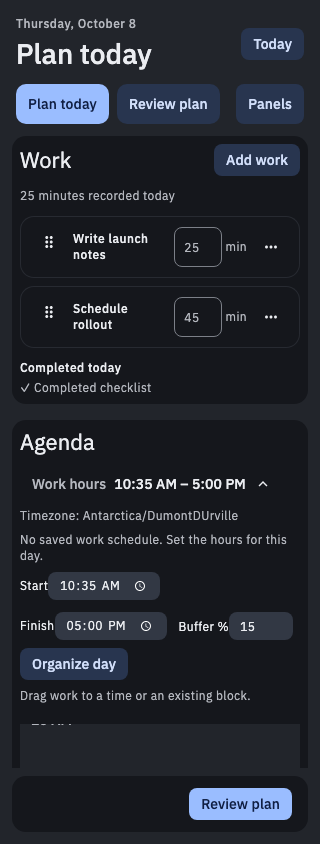
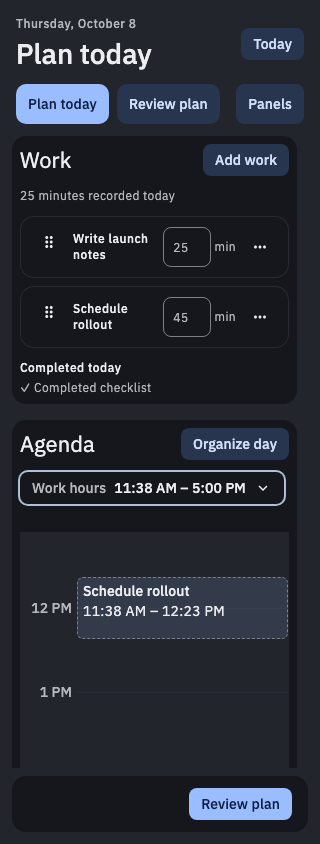
fix(planning): Reduce agenda clutter during daily planning
Keep the agenda focused on timed work instead of opening scheduling
settings and calendar metadata above it. Workday bounds remain editable
through the range disclosure, and all-day details stay collapsed while
busy events retain their availability consequence.

Place Organize day beside the heading and remove repeated normal-state
status and permanent drag instructions. Show revision controls only when
a proposal or reversible change requires a decision. Preserve scheduling
geometry, task placement, and the separate planning activity.

Authenticated built-app journeys verify late planning, draft resume,
missed-block previews, and consolidated review. Fresh captures cover
both themes and widths down to 320 pixels. Focused interaction tests and
the full web typecheck pass without relaxing the complexity gate.

diff --git a/apps/web/tests/daily-planning/workday-controls.test.tsx b/apps/web/tests/daily-planning/workday-controls.test.tsx
@@ -3,7 +3,10 @@ import { cleanup, fireEvent, render, screen } from '@testing-library/react';
 import userEvent from '@testing-library/user-event';
 import { afterEach, expect, it, vi } from 'vitest';
 import type { ReadyPlanningController } from '../../src/components/daily-planning/daily-planning-controller';
-import { WorkdayControls } from '../../src/components/daily-planning/daily-planning-schedule-controls';
+import {
+  ScheduleControls,
+  WorkdayControls,
+} from '../../src/components/daily-planning/daily-planning-schedule-controls';
 
 afterEach(cleanup);
 
@@ -42,15 +45,17 @@ it('keeps review settings closed while allowing a keyboard edit of the finish ti
   });
 });
 
-it('shows editable bounds in planning when no work schedule has been saved', () => {
+it('opens editable bounds on demand when no work schedule has been saved', async () => {
   render(<WorkdayControls plan={controller('plan')} />);
+  expect(screen.queryByLabelText('Start')).not.toBeInTheDocument();
+  await userEvent.click(screen.getByRole('button', { name: 'Workday settings' }));
   expect(screen.getByText('Timezone: UTC')).toBeVisible();
   expect(screen.getByLabelText('Start')).toHaveValue('09:00');
   expect(screen.getByLabelText('Finish')).toHaveValue('17:00');
   expect(screen.getByLabelText('Buffer %')).toHaveValue(15);
 });
 
-it('expands missing work hours when proposal context arrives after the first render', () => {
+it('keeps settings closed when proposal context arrives after the first render', () => {
   const plan = controller('plan');
   const pending = { ...plan, proposalContext: null };
   const view = render(<WorkdayControls plan={pending} />);
@@ -59,10 +64,10 @@ it('expands missing work hours when proposal context arrives after the first ren
     'false',
   );
   view.rerender(<WorkdayControls plan={plan} />);
-  expect(screen.getByLabelText('Start')).toHaveValue('09:00');
+  expect(screen.queryByLabelText('Start')).not.toBeInTheDocument();
   expect(screen.getByRole('button', { name: 'Workday settings' })).toHaveAttribute(
     'aria-expanded',
-    'true',
+    'false',
   );
 });
 
@@ -79,3 +84,29 @@ it.each([true, false])(
     expect(trigger).toHaveAttribute('aria-expanded', String(open));
   },
 );
+
+it('shows revision actions only while a proposal or undoable change exists', async () => {
+  const plan = {
+    ...controller('plan'),
+    preview: null,
+    canUndoSchedule: false,
+    applyPreview: vi.fn(),
+    setPreview: vi.fn(),
+    undoSchedule: vi.fn(),
+  };
+  const view = render(<ScheduleControls plan={plan} />);
+  expect(screen.queryByRole('button')).not.toBeInTheDocument();
+  view.rerender(
+    <ScheduleControls
+      plan={{ ...plan, preview: { title: 'Updated schedule', draft: plan.draft } }}
+    />,
+  );
+  await userEvent.click(screen.getByRole('button', { name: 'Apply schedule' }));
+  expect(plan.applyPreview).toHaveBeenCalledOnce();
+  await userEvent.click(screen.getByRole('button', { name: 'Keep current' }));
+  expect(plan.setPreview).toHaveBeenCalledWith(null);
+  expect(screen.queryByRole('button', { name: 'Undo schedule' })).not.toBeInTheDocument();
+  view.rerender(<ScheduleControls plan={{ ...plan, canUndoSchedule: true }} />);
+  await userEvent.click(screen.getByRole('button', { name: 'Undo schedule' }));
+  expect(plan.undoSchedule).toHaveBeenCalledOnce();
+});

diff --git a/apps/web/src/components/daily-planning/daily-planning-schedule-controls.tsx b/apps/web/src/components/daily-planning/daily-planning-schedule-controls.tsx
@@ -66,9 +66,7 @@ function WorkdayBuffer({ plan }: { readonly plan: ReadyPlanningController }): JS
 
 /** Edit the scheduling bounds and buffer used by the proposal service. */
 export function WorkdayControls({ plan }: { readonly plan: ReadyPlanningController }): JSX.Element {
-  const [chosenOpen, setChosenOpen] = useState<boolean | null>(null);
-  const open =
-    chosenOpen ?? (plan.stage === 'plan' && Boolean(plan.proposalContext?.workScheduleMissing));
+  const [open, setOpen] = useState(false);
   const changeTime = (value: string, field: 'start' | 'finish'): void => {
     if (!value) return;
     const [hours, minutes] = value.split(':').map(Number);
@@ -84,7 +82,7 @@ export function WorkdayControls({ plan }: { readonly plan: ReadyPlanningControll
     );
   };
   return (
-    <Collapsible open={open} onOpenChange={setChosenOpen} className="space-y-2">
+    <Collapsible open={open} onOpenChange={setOpen} className="space-y-2">
       <CollapsibleTrigger asChild>
         <Button
           size="sm"
@@ -128,36 +126,36 @@ export function WorkdayControls({ plan }: { readonly plan: ReadyPlanningControll
   );
 }
 
+/** Rebuild flexible work without replacing the current agenda until it is accepted. */
+export function OrganizeDay({ plan }: { readonly plan: ReadyPlanningController }): JSX.Element {
+  return (
+    <Button
+      size="sm"
+      variant="secondary"
+      disabled={plan.proposalPending}
+      onClick={() => {
+        void plan.rebuild();
+      }}
+    >
+      Organize day
+    </Button>
+  );
+}
+
 /** Keep a proposed revision separate until the person accepts the shown calendar. */
 export function ScheduleControls({
   plan,
 }: {
   readonly plan: ReadyPlanningController;
-}): JSX.Element {
+}): JSX.Element | null {
+  if (!plan.preview && !plan.canUndoSchedule) return null;
   return (
     <div className="space-y-2">
-      <div className="flex flex-wrap items-center gap-2">
-        <Button
-          size="sm"
-          variant="secondary"
-          disabled={plan.proposalPending}
-          onClick={() => {
-            void plan.rebuild();
-          }}
-        >
-          Organize day
+      {plan.canUndoSchedule && !plan.preview ? (
+        <Button size="sm" variant="ghost" onClick={plan.undoSchedule}>
+          Undo schedule
         </Button>
-        {plan.canUndoSchedule ? (
-          <Button size="sm" variant="ghost" onClick={plan.undoSchedule}>
-            Undo schedule
-          </Button>
-        ) : null}
-        {plan.stage === 'plan' ? (
-          <span className="text-body-small text-on-surface-variant">
-            Drag work to a time or an existing block.
-          </span>
-        ) : null}
-      </div>
+      ) : null}
       {plan.preview ? (
         <Card>
           <CardContent className="space-y-2 pt-3">

diff --git a/apps/web/src/components/daily-planning/daily-planning-agenda.tsx b/apps/web/src/components/daily-planning/daily-planning-agenda.tsx
@@ -3,7 +3,8 @@
 /** Timed daily agenda and explicit block controls for keyboard and touch. */
 import type { DailyPlanSession, DailyPlanSnapshot } from '@docket/planning/daily-plan-flow';
 import { instantAt, localMinuteOfDay } from '@docket/planning/zoned-time';
-import { Button, Stack } from '@docket/ui/primitives';
+import { Button, Collapsible, CollapsibleContent, CollapsibleTrigger } from '@docket/ui/primitives';
+import { ChevronDown } from '@docket/ui/icons';
 import type { JSX, ReactNode } from 'react';
 import { SchedulingCanvas, type ScheduleItem } from '@/components/scheduling';
 import { useDailyPlanDropTarget } from '@/components/dnd/use-daily-plan-drop-target';
@@ -129,18 +130,36 @@ function agendaItems(props: DailyAgendaProps): ScheduleItem[] {
 function AllDayContext({ events }: { readonly events: readonly EventBlock[] }): JSX.Element | null {
   const allDay = events.filter((event) => event.allDay);
   if (allDay.length === 0) return null;
+  const busy = allDay.filter((event) => event.blocksTime !== false);
+  const label =
+    busy.length === 1
+      ? `${busy[0]?.title} · Busy all day`
+      : busy.length > 1
+        ? `${busy.length} busy all-day events`
+        : `${allDay.length} all-day ${allDay.length === 1 ? 'event' : 'events'}`;
   return (
-    <Stack gap={1} role="group" aria-label="All-day calendar context">
-      <p className="text-label-small text-on-surface-variant">All day</p>
-      <ul className="text-body-small text-on-surface-variant flex flex-wrap gap-x-3 gap-y-1">
-        {allDay.map((event, index) => (
-          <li key={`${event.title}-${index}`}>
-            {event.title}
-            {event.blocksTime !== false ? ' (busy)' : ''}
-          </li>
-        ))}
-      </ul>
-    </Stack>
+    <Collapsible role="group" aria-label="All-day calendar context" className="space-y-1">
+      <CollapsibleTrigger asChild>
+        <Button
+          size="sm"
+          variant="ghost"
+          className="group h-auto max-w-full justify-start gap-2 text-left"
+        >
+          <span className="text-body-small text-on-surface-variant min-w-0 text-wrap">{label}</span>
+          <ChevronDown aria-hidden="true" className="shrink-0 group-data-[state=open]:rotate-180" />
+        </Button>
+      </CollapsibleTrigger>
+      <CollapsibleContent>
+        <ul className="text-body-small text-on-surface-variant space-y-1 px-3">
+          {allDay.map((event, index) => (
+            <li key={`${event.title}-${index}`}>
+              {event.title}
+              {event.blocksTime !== false ? ' (busy)' : ''}
+            </li>
+          ))}
+        </ul>
+      </CollapsibleContent>
+    </Collapsible>
   );
 }
 

diff --git a/apps/web/src/components/daily-planning/daily-planning-plan.tsx b/apps/web/src/components/daily-planning/daily-planning-plan.tsx
@@ -11,7 +11,7 @@ import { ActivityPanels } from '@docket/ui/components';
 import { DailyAgenda } from './daily-planning-agenda';
 import { SessionEditor } from './daily-planning-session-editor';
 import { DailyPlanningAssessment } from './daily-planning-assessment';
-import { ScheduleControls, WorkdayControls } from './daily-planning-schedule-controls';
+import { OrganizeDay, ScheduleControls, WorkdayControls } from './daily-planning-schedule-controls';
 import type { ReadyPlanningController } from './daily-planning-controller';
 import {
   addTaskToSession,
@@ -89,34 +89,14 @@ function agendaActions(plan: ReadyPlanningController) {
 }
 
 function AgendaHeading({ plan }: { readonly plan: ReadyPlanningController }): JSX.Element {
-  const displayed = plan.preview?.draft ?? plan.draft;
-  const unplaced = displayed.tasks.filter(
-    (entry) => unplacedMinutes(displayed, entry.taskId, plan.dayQ.data?.actual ?? []) > 0,
-  ).length;
   return (
     <>
-      <div className="flex flex-wrap items-start justify-between gap-2">
-        <div className="space-y-1">
-          <h2 className="text-title-large">Agenda</h2>
-          {plan.stage === 'review' ? (
-            <p className="text-on-surface-variant text-body-small">
-              {unplaced > 0
-                ? `${unplaced} ${unplaced === 1 ? 'task still needs' : 'tasks still need'} a block.`
-                : 'No unscheduled work.'}
-            </p>
-          ) : null}
-        </div>
+      <div className="flex flex-wrap items-center justify-between gap-2">
+        <h2 className="text-title-large">Agenda</h2>
+        <OrganizeDay plan={plan} />
       </div>
-      <div
-        className={
-          plan.stage === 'review' && !plan.preview
-            ? 'flex flex-wrap items-start gap-2'
-            : 'space-y-2'
-        }
-      >
-        <WorkdayControls plan={plan} />
-        <ScheduleControls plan={plan} />
-      </div>
+      <WorkdayControls plan={plan} />
+      <ScheduleControls plan={plan} />
     </>
   );
 }

diff --git a/apps/web/tests/daily-planning/agenda-context.test.tsx b/apps/web/tests/daily-planning/agenda-context.test.tsx
@@ -1,5 +1,6 @@
 import '@testing-library/jest-dom/vitest';
 import { cleanup, render, screen, within } from '@testing-library/react';
+import userEvent from '@testing-library/user-event';
 import { afterEach, expect, it, vi } from 'vitest';
 import type { ScheduleLane } from '../../src/components/scheduling';
 import { DailyAgenda } from '../../src/components/daily-planning/daily-planning-agenda';
@@ -22,7 +23,7 @@ vi.mock('../../src/components/dnd/use-daily-plan-drop-target', () => ({
 }));
 afterEach(cleanup);
 
-it('keeps all-day provider context compact and noninteractive while showing timed free events', () => {
+it('discloses all-day details while retaining the busy condition and timed free events', async () => {
   const events = [
     ...['Home', 'Cycle', 'WWD'].map((title) => ({
       title,
@@ -66,10 +67,15 @@ it('keeps all-day provider context compact and noninteractive while showing time
     />,
   );
   const context = screen.getByRole('group', { name: 'All-day calendar context' });
+  const trigger = within(context).getByRole('button', { name: 'Unavailable day · Busy all day' });
+  expect(trigger).toHaveAttribute('aria-expanded', 'false');
+  expect(within(context).queryByText('Home')).not.toBeInTheDocument();
+  trigger.focus();
+  await userEvent.keyboard('{Enter}');
   for (const title of ['Home', 'Cycle', 'WWD'])
     expect(within(context).getByText(title)).toBeVisible();
   expect(within(context).getByText('Unavailable day (busy)')).toBeVisible();
-  expect(within(context).queryByRole('button')).not.toBeInTheDocument();
+  expect(trigger).toHaveAttribute('aria-expanded', 'true');
   expect(container.querySelectorAll('[data-schedule-item]')).toHaveLength(1);
   expect(screen.getByText('Optional calendar note')).toBeVisible();
 });

diff --git a/apps/web/e2e/work/daily-planning-flow.spec.ts b/apps/web/e2e/work/daily-planning-flow.spec.ts
@@ -49,6 +49,15 @@ test('a late proposal preserves actual work, excludes completed tasks, and resum
   await expect(
     page.getByRole('spinbutton', { name: 'Planned time for Completed checklist' }),
   ).toHaveCount(0);
+  const hours = page.getByRole('button', { name: 'Workday settings', exact: true });
+  await expect(hours).toHaveAttribute('aria-expanded', 'false');
+  await hours.focus();
+  await page.keyboard.press('Enter');
+  await expect(page.getByLabel('Finish', { exact: true })).toBeVisible();
+  await page.keyboard.press('Shift+Tab');
+  await hours.focus();
+  await page.keyboard.press('Enter');
+  await expect(page.getByLabel('Finish', { exact: true })).toHaveCount(0);
   await captureDailyPlanningEvidence(page, testInfo, 'plan');
   await reviewPlan(page);
   await captureDailyPlanningEvidence(page, testInfo, 'review');

diff --git a/docs/WORKLOG.md b/docs/WORKLOG.md
@@ -13,6 +13,8 @@
 - **Started**: 2026-10-06
 - **Priority**: P0
 - **Description**: Give a person an ordered, scheduled draft every day, then use the accepted sessions to present explicit work in Today.
+- **October 7 agenda hierarchy correction**: Keep the right panel focused on timed work. Collapse workday settings by default, even when a saved schedule is absent. Put Organize day beside the Agenda heading, remove repeated normal-state status and permanent drag instructions, and disclose all-day calendar details while retaining busy-day consequences. Preserve proposal Apply/Keep current, Undo, and explicit scheduling controls. Verify editing, keyboard access, preview behavior, and fresh responsive captures before delivery.
+- **Agenda correction validation**: The built PostgreSQL application passed late planning/resume, both missed-work preview choices, and consolidated yesterday review in 20.8 seconds. Twenty-four authenticated agenda frames refresh planning, review, and revision-preview at four widths in both themes. The same run also captured yesterday review. Inspected desktop, phone, and narrow recovery captures show the compact range/header, readable blocks, footer clearance, and explicit revision controls. Seven focused behavior tests pass, including keyboard disclosure, editable Finish, retained busy-day context, and conditional revision actions. The full web typecheck and focused lint pass. The agenda-only design scorecard records the local acceptance evidence; deployment remains the next gate.
 - **October 7 activity correction**: Move daily planning to `/plan/day` in an authenticated activity route group that never mounts AppShellFrame. Preserve the legacy daily URL by redirecting it. Reuse the account isolation and offline ownership boundary, task composer, typed queries, and timer store without application navigation, document tabs, or global rails. Frame planning in a centered page surface on the shared canvas. Let a person show Work, Agenda, or both without remounting edits. Keep each review, selection, and confirmation stage distinct. Verify entry, save-and-exit, draft resume, task creation, cross-context navigation, and fresh desktop and phone captures before delivery.
 - **Activity validation finding**: The first built activity run passed fourteen journeys and caught two navigation failures. Today treated the new route as an unavailable local offline page, and recovery initialized from the previous page's address before Next committed the activity destination. Activity entry now uses non-prefetched router links, and the activity location reader follows that destination while online. It retains the browser address for offline document replay. A new regression failed before this correction and passes afterward. Fresh captures also showed confirmation below the visible agenda; the activity footer now reserves its own space outside the scroll region. The final rebuilt PostgreSQL artifact run passed all sixteen authenticated journeys on their first attempt in 6.2 minutes. It refreshed 104 captures across thirteen stages, four widths, and both themes. The affected web/UI type and lint graph passed, the final location/action regressions passed eighteen cases, and shared workspace tests passed. The unchanged complexity ledger is clean at 830 files and 1,414 entries. This activity correction is ready for integration; authenticated deployed acceptance of the full daily loop remains open. The final corner radius uses the existing sixteen-pixel design token without changing the captured geometry. Main now includes the matching authentication acceptance correction, so this delivery preserves its fixtures instead of duplicating them.
 - **Activity navigation gate**: CI `37696509360` passed all authenticated browser journeys but rejected five direct Next-link imports. Extend DocketLink with a typed activity navigation mode that leaves the workspace page switcher and module warmer behind while preserving the shared click and offline-document boundary. Three new regressions fail before the correction. Keep the navigation policy unchanged and verify the activity entry, recovery, and exit journeys again before another delivery. The shared-link regressions and policy pass. The affected web type/lint graph passes, and the unchanged complexity ledger is clean. The rebuilt artifact rerun exposed a fixture-only timezone gap before setup: the regional shortlist had no morning zone at 00:09 UTC. Fixture selection now uses the runtime's supported timezone inventory. A regression checks both work windows across all twenty-four UTC hours in winter, summer, and October. The final rebuilt artifact passes all five affected authenticated journeys in 32.3 seconds. The keyboard adjustment enters the activity, opens its block editor, closes it, returns to review, confirms, and starts the accepted next task. The shared navigation and timezone regressions pass twenty-two cases. The final helper lint and built typecheck pass, and the unchanged complexity ledger is clean at 829 files and 1,412 entries. The retained capture set refreshes the affected stages; the complete sixteen-journey activity evidence remains recorded above. The corrective delivery reached main as `e902fb361`. CI then rejected the new timezone test because its numeric pairs inferred arrays rather than fixed tuples. The production build excludes test types, so its passing TypeScript phase did not prove this new test. Those pairs now use readonly tuple types. The final affected web typecheck graph passes, and all three timezone regressions pass. This type-only correction does not invalidate the built activity journeys or their captures. Main now contains `2ff6a1908`. CI `37709086750` and deployment `37711137141` both passed. The clearthedocket.com alias resolves to ready Vercel deployment `dpl_tutzqMbRqPTajvPKoHw64FWWRt2n`, matching that commit's Vercel check. Signed-in production verifies canonical entry from a fresh Today page, an activity workspace with no app navigation, Work-only/Agenda-only/both panels, Add work and task-composer containment, save-and-exit, and draft resume. The first existing tab retained its old cached client until loading the new activity document. Fresh Today then exposes the canonical link. Private production captures remain outside the repository. Desktop, 390px phone, and 320px phone were inspected; both phone widths have no horizontal overflow. The viewport override was reset. No task was added, plan confirmed, or timer started. The separate activity correction is deployed and verified. The full automatic-day production gate remains open: this account has no saved work schedule and has an all-day event marked busy. Its calendar choices and paused work record were not changed.

diff --git a/docs/design/audits/2026-10-07-daily-planning-agenda.md b/docs/design/audits/2026-10-07-daily-planning-agenda.md
@@ -1,0 +1,20 @@
+# Daily planning agenda — October 7, 2026
+
+This review is for Docket maintainers releasing the agenda hierarchy correction. It verifies the reduced right-panel controls against authenticated renders, without treating local evidence as production acceptance.
+
+The Agenda heading contains Organize day. The next row shows the workday range and opens Start, Finish, buffer, timezone, and missing-schedule details. These settings stay closed until requested. All-day context has one disclosure. Its closed label retains the busy-day consequence. The ordinary view has no permanent drag instructions or redundant “No unscheduled work” message. Apply, Keep current, Undo, and affected tasks remain visible only in the states that require them.
+
+The refreshed [capture set](screenshots/2026-10-06-daily-planning/) contains new plan, review, and revision-preview frames at 1440 × 900, 390 × 844, 320 × 844, and 390 × 600 in both themes. The plan frames retain the work-hours keyboard focus indicator after the interaction check. The review frames show the resting state.
+
+| Dimension                        | Score | Evidence                                                                                                          |
+| -------------------------------- | ----- | ----------------------------------------------------------------------------------------------------------------- |
+| Brand identity and voice         | 3     | Plan and review keep Plex, shared surfaces, and concrete action labels.                                           |
+| Typographic craft                | 3     | Heading, workday range, timed task title, and event time have distinct roles.                                     |
+| Spatial rhythm and density       | 3     | The desktop agenda has one header action and one range row before the canvas.                                     |
+| Hierarchy and information design | 3     | Review gives the calendar precedence; settings no longer precede work as an expanded form.                        |
+| Color discipline                 | 3     | Light and dark frames retain the shared task, canvas, and primary-action colors.                                  |
+| Motion and feedback              | 3     | Proposed recovery remains visible before Apply; the plan frame shows keyboard focus on the disclosure.            |
+| States completeness              | 3     | Late planning, resumed review, both missed-block choices, and consolidated review passed against the built app.   |
+| Detail craft                     | 3     | Phone controls remain readable, the footer clears the calendar, and 320-pixel frames have no horizontal overflow. |
+
+The hard gates pass for this correction. The existing shared controls provide keyboard focus and phone touch sizing. The new disclosure test opens and closes work hours with Enter; unit coverage verifies Finish editing, busy all-day details, and conditional Apply/Keep current/Undo actions. Both themes and four widths were captured without horizontal overflow. The screenshots use persisted task fixtures rather than placeholder content. Calendar geometry and short-block controls are unchanged. Verdict: SHIP for the local agenda correction. The full automatic-day production acceptance remains separate.

diff --git a/docs/design/audits/2026-10-06-daily-planning.md b/docs/design/audits/2026-10-06-daily-planning.md
@@ -2,7 +2,7 @@
 
 This review is for Docket's product and engineering maintainers. Use it to check the daily loop before deployment. The screenshots use an authenticated local fixture account. They are visual evidence, not production acceptance.
 
-The application uses Docket's Plex typography and shared MD3 surfaces. Today remains home. Daily planning now occupies a separate activity route and centered workspace without the application sidebar, workspace header, document tabs, or side panels. The date, contained stage buttons, and Today exit provide its navigation. Today and weekly planning retain the application shell. Review yesterday, Plan today, Review plan, and confirmation each retain their own screen. Add work opens a separate searchable surface. The October 7 activity correction puts the agenda first during review and keeps selected work in a second panel. The Panels menu can show Work, Agenda, or both. Hiding a panel preserves its mounted controls and edits. The shared workspace header and action footer remain outside the scrolling content. Secondary task actions open only when requested. Workday settings stay collapsed during review, except when a missing saved schedule requires the person to choose bounds. All-day context sits above the timed canvas instead of occupying a full-day rectangle.
+The application uses Docket's Plex typography and shared MD3 surfaces. Today remains home. Daily planning now occupies a separate activity route and centered workspace without the application sidebar, workspace header, document tabs, or side panels. The date, contained stage buttons, and Today exit provide its navigation. Today and weekly planning retain the application shell. Review yesterday, Plan today, Review plan, and confirmation each retain their own screen. Add work opens a separate searchable surface. The October 7 activity correction puts the agenda first during review and keeps selected work in a second panel. The Panels menu can show Work, Agenda, or both. Hiding a panel preserves its mounted controls and edits. The shared workspace header and action footer remain outside the scrolling content. Secondary task actions open only when requested. Workday settings stay collapsed until opened during planning and review. All-day context sits above the timed canvas behind a disclosure; busy all-day events retain a visible availability consequence.
 
 The capture set is in [screenshots/2026-10-06-daily-planning](screenshots/2026-10-06-daily-planning/). Every main stage has 1440 × 900 desktop, 390 × 844 phone, 320 × 844 narrow phone, and 390 × 600 short phone captures in both themes. The revision-preview set shows the proposed displacement before Apply. The revision set shows the updated-plan confirmation. The short-block set verifies five-minute geometry in planning, review, and Today.
 

diff --git a/docs/core/daily-planning.md b/docs/core/daily-planning.md
@@ -40,7 +40,7 @@ Athena can assess the visible plan and suggest missing project work, but no step
 
 Plan today opens with an ordered proposed schedule. Docket places existing commitments first, then suggests eligible work when useful capacity remains. Every suggestion includes a reason. Incomplete dependencies can keep a task visible under Unscheduled. Minute estimates and recorded history inform Planned time; points never become minutes. Start and finish remain editable, and the default buffer reserves 15% of free work time.
 
-Docket adds backlog suggestions only when their remaining work fits. It keeps prior choices when a day becomes full. The agenda retains all-day context and available calendar events without treating them as busy time. When no work schedule exists, planning opens the workday bounds and shows their timezone.
+Docket adds backlog suggestions only when their remaining work fits. It keeps prior choices when a day becomes full. The agenda retains all-day context and available calendar events without treating them as busy time. The agenda shows the workday range with one control to open Start, Finish, and buffer settings. Settings remain closed until requested, including when no work schedule exists. The disclosure shows the scheduling timezone and missing-schedule condition. All-day details are collapsed; busy all-day events remain identified because they reduce availability. Organize day sits beside the Agenda heading. Apply, Keep current, and Undo appear only when a proposal or reversible change exists.
 
 Moving a work card changes today's sequence. Moving or resizing a calendar block changes its placement or allocation time. Neither action changes task priority. Changes to future flexible work appear on the agenda before Apply, with Undo afterward. Manual placements, pinned blocks, fixed events, protected time, and recorded work remain intact.
 

diff --git a/README.md b/README.md
@@ -1,6 +1,6 @@
 # Docket
 
-Daily planning opens from Today into its own activity at `/plan/day`. Its centered workspace keeps the agenda and editable work together without the application sidebar. Panel controls show Work, Agenda, or both. Leaving saves the draft and returns to Today.
+Daily planning opens from Today into its own activity at `/plan/day`. Its centered workspace keeps the agenda and editable work together without the application sidebar. Panel controls show Work, Agenda, or both. Leaving saves the draft and returns to Today. The agenda keeps work hours and all-day details behind disclosures while retaining scheduling conflicts and proposed changes.
 
 Docket is a local-first workspace for planning and doing work. The repository contains the web
 application, operator console, API, background runner, shared packages, and deployment tooling.
